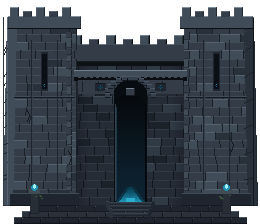
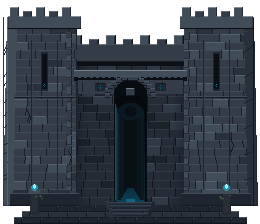
P21 tower gate: keep the aperture dark so the animated rift is the only light
The contract test required >120 px of painted glow inside the rift box. That guard encoded
the wrong art rule: the renderer strokes a bright moving rift there, so painting a second
light under it makes the animation read as a sticker on a static orb.

- art: the aperture is a dark recess with depth bands and a lit left reveal; the only painted
  light is a cold spill on the threshold, below the ring
- test: assert a dark recess, NO painted light inside the rift box, stone under the ring's top
  edge, and a cold spill on the threshold rows

Changed region(s): [[0.4615, 0.8125, 0.5538, 0.9062], [0.4308, 0.5, 0.4615, 0.6875]]

diff --git a/app/src/test/java/com/example/MapForgeP21ContractTest.kt b/app/src/test/java/com/example/MapForgeP21ContractTest.kt
@@ -244,7 +244,14 @@ class MapForgeP21ContractTest {
     ).forEach { assertNotNull("atlas property must resolve", it.get()) }
   }
 
-  /** The tower gate's painted portal must occupy the box the renderer animates the rift into. */
+  /**
+   * The tower gate's aperture must be the box the renderer animates the rift into.
+   *
+   * The renderer draws a bright, moving rift oval at sprite (W/2, 120) +/- (16, 27). The art must
+   * therefore paint a DARK recess in exactly that box -- if it painted its own bright orb, the
+   * animated ring would sit on a static light and read as a sticker. The painted light belongs
+   * below the ring, on the threshold, where it can look like the source of the spill.
+   */
   @Test
   fun towerGatePortalMatchesAnimatedRiftBox() {
     prepare()
@@ -253,21 +260,27 @@ class MapForgeP21ContractTest {
     // => sprite centre (W/2, 120) with a 16 x 27 px half-size.
     val cx = bmp.width / 2
     val cy = 120
-    // The painted void must be dark at the rift centre's flanks and glowing at its core.
     var dark = 0
-    var glow = 0
+    var bright = 0
     for (y in (cy - 20)..(cy + 20)) for (x in (cx - 14)..(cx + 14)) {
       val p = bmp.getPixel(x, y)
       val r = (p shr 16) and 0xFF; val g = (p shr 8) and 0xFF; val b = p and 0xFF
       if ((p ushr 24) == 0) continue
       if (r < 40 && g < 40 && b < 46) dark++
-      if (g > 90 && b > 110) glow++
+      if (g > 140 && b > 160) bright++
     }
-    assertTrue("portal must contain a dark recess ($dark px)", dark > 200)
-    assertTrue("portal must contain the rift light ($glow px)", glow > 120)
+    assertTrue("the rift box must be a dark recess, not sky ($dark px)", dark > 600)
+    assertTrue("the rift box must not paint its own light ($bright px)", bright < 60)
     // The animated ring's outer edge must stay inside opaque stone, not float in the sky.
     for (x in (cx - 16)..(cx + 16)) {
       assertTrue("rift top edge must sit on stone at x=$x", (bmp.getPixel(x, cy - 27) ushr 24) != 0)
     }
+    // And the painted light lives on the threshold, below the rift box (rows H-38..H-24).
+    var spill = 0
+    for (y in (bmp.height - 38)..(bmp.height - 24)) for (x in (cx - 8)..(cx + 8)) {
+      val p = bmp.getPixel(x, y)
+      if ((p ushr 24) != 0 && ((p shr 8) and 0xFF) > 40) spill++
+    }
+    assertTrue("threshold must carry the cold spill ($spill px)", spill > 40)
   }
 }

diff --git a/tools/mapforge_p21_architecture.py b/tools/mapforge_p21_architecture.py
@@ -1425,6 +1425,24 @@ def build_tower_gate() -> Image.Image:
     c.vline(cx - prx + 1, top + 11, bot - 1, BASA["lt"])
     c.vline(cx - prx + 2, top + 14, bot - 2, mix_hex(BASA["base"], CYAN["deep"], 0.55))
     c.vline(cx + prx - 1, top + 11, bot - 2, "#03060a")
+    # The renderer animates a bright rift oval inside sprite (130,120) +/- (16,27). If the art
+    # also paints a glowing orb there, the moving ring reads as a sticker on a static light and
+    # the two fight. So the aperture is painted DARK -- a real recess with depth bands -- and the
+    # only painted light is a cold spill on the threshold below the ring, which the animation
+    # then appears to come from. The stone rim stays opaque so the ring lands on masonry.
+    for i, (half, col) in enumerate(((13, "#0b1a22"), (10, "#0a151c"), (6, "#081016"))):
+        c.rect(cx - half, top + 16, cx + half, bot - 2, col)
+    c.ellipse(cx, top + 18, 12, 8, "#0b1a22")
+    c.ellipse(cx, top + 18, 6, 5, "#081016")
+    # side reveal: one value step up on the lit (left) side, near-black on the right
+    c.vline(cx - 13, top + 20, bot - 2, "#12303c")
+    c.vline(cx - 12, top + 22, bot - 3, "#0d222b")
+    # threshold spill: below the ring's bottom edge, brightest at the sill
+    for y in range(bot - 13, bot + 1):
+        t = 1.0 - (bot - y) / 13.0
+        half = int(3 + 8 * t)
+        c.rect(cx - half, y, cx + half, y, mix_hex("#0a1a22", CYAN["deep"], 0.55 + 0.45 * t))
+    c.rect(cx - 4, bot - 2, cx + 4, bot, CYAN["dim"])
     # voussoirs around the arch, one block per 15 degrees
     for a in range(13):
         ang = math.pi + a * math.pi / 12
